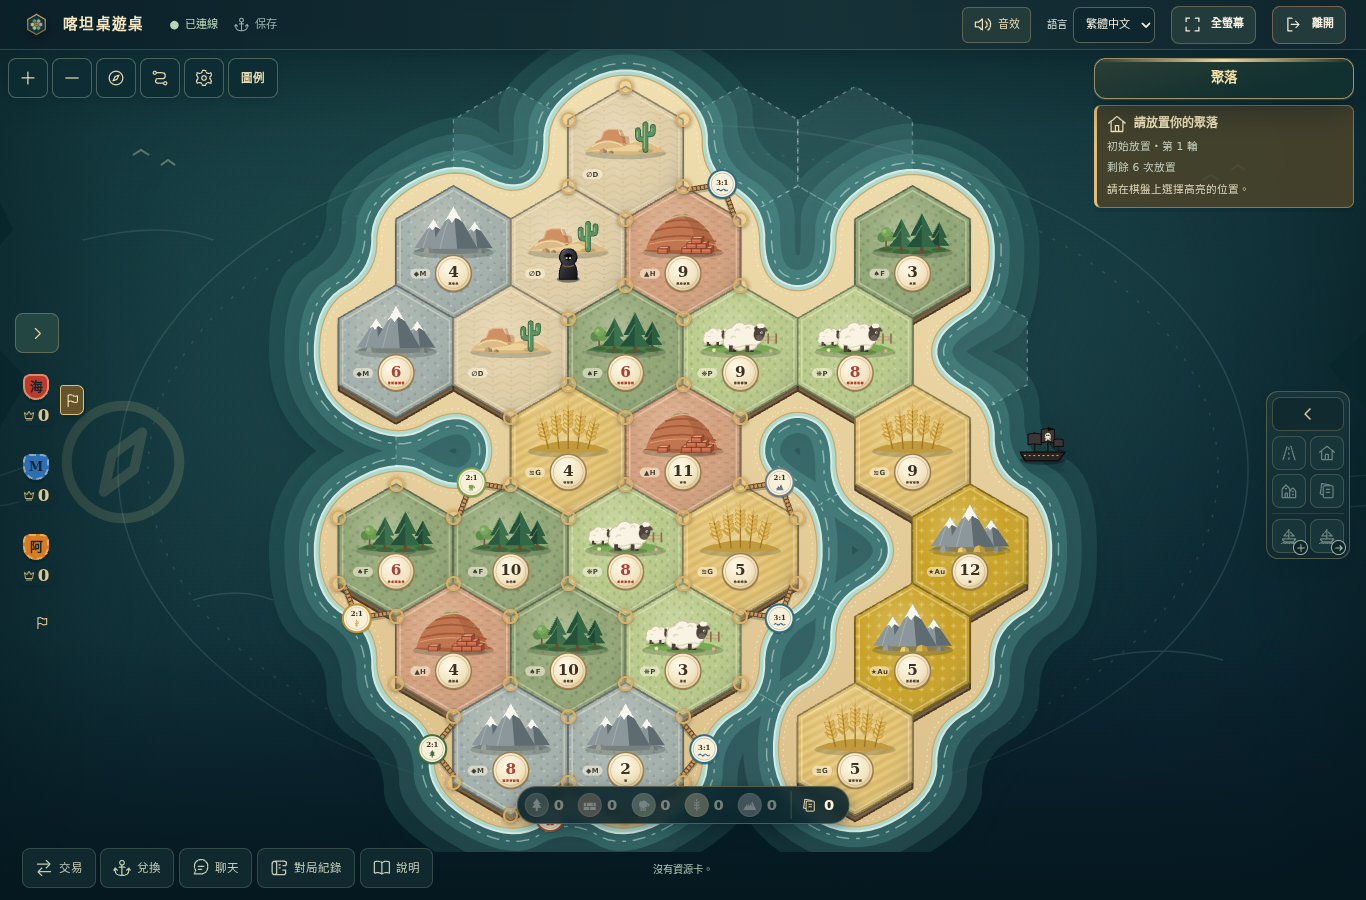
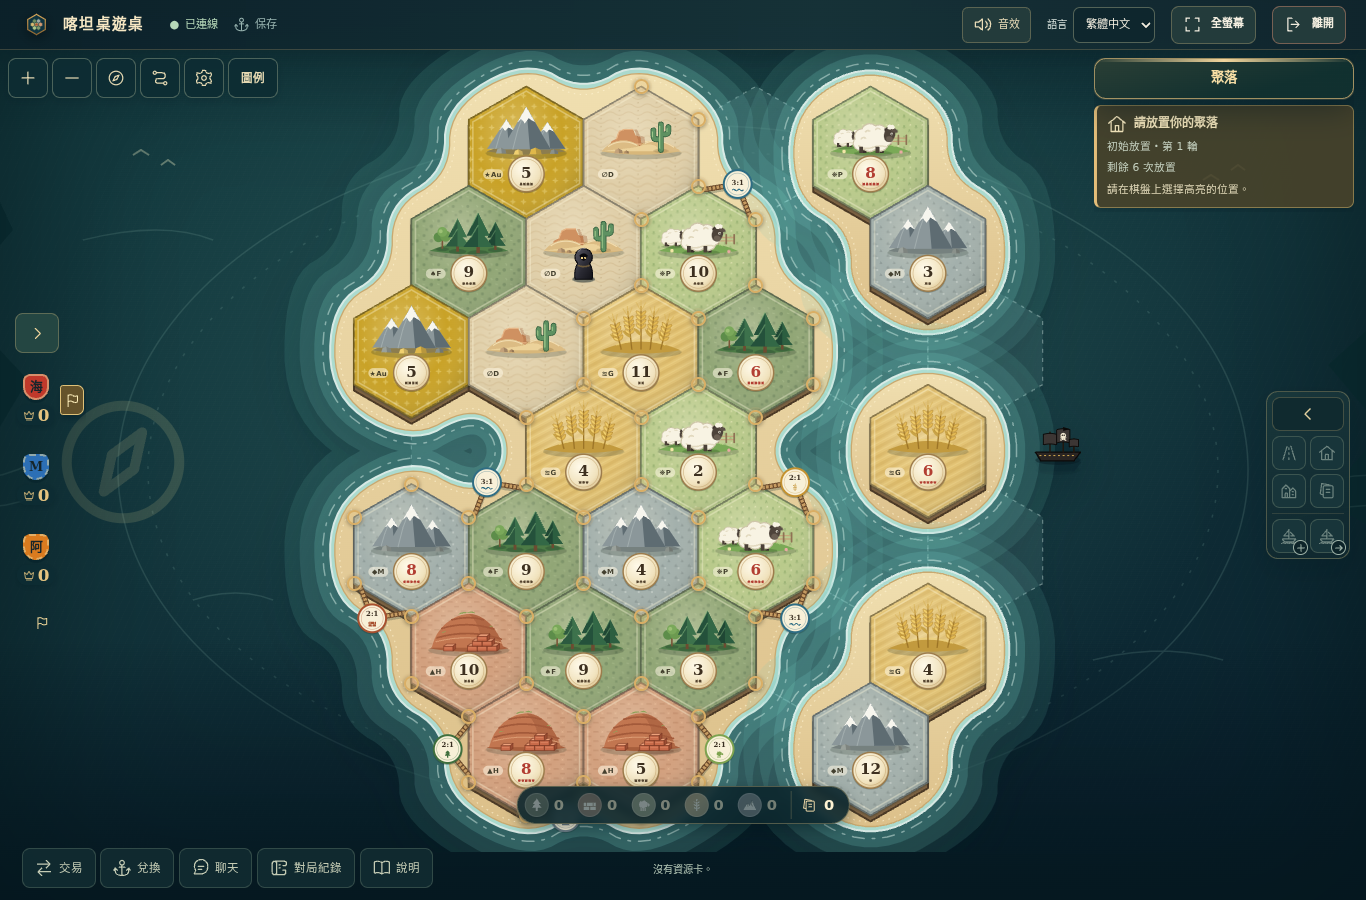
📝 docs(screenshots): retake the s4 variable setup captures

diff --git a/docs/aegis/work/2026-11-24-seafarers-variable-setup.md b/docs/aegis/work/2026-11-24-seafarers-variable-setup.md
@@ -105,7 +105,7 @@ shuffled.
 
 ## Browser evidence (`scripts/seafarers/capture_variable_setup.py`)
 
-Real games through the real UI and API against the built service (private SQLite): the host creates the room, switches the setup mode to `variable` in the lobby settings and saves, three or four seats join and start. Each started board is read from the API and checked by `variable_fixture.mjs` (it differs from the fixed map; S2 no 2/3/11/12 on forest or pasture and robber on the 12; S3 robber on the 12; S4 no adjacent red discs, none on gold, robber on the desert). 21 cases, 0 errors; the curated 15 images are kept in `docs/screenshots/seafarers-variable-setup/` (the others, such as the 3-player lobby shots, are deleted after the run and marked `committed: false`).
+Real games through the real UI and API against the built service (private SQLite): the host creates the room, switches the setup mode to `variable` in the lobby settings and saves, three or four seats join and start. Each started board is read from the API and checked by `variable_fixture.mjs` (it differs from the fixed map; S2 no 2/3/11/12 on forest or pasture and robber on the 12; S3 robber on the 12; S4 no adjacent red discs, none on gold, robber on the desert). 21 cases, 0 errors (the S4 captures were retaken after the review fix; `SF_SCENARIOS=through-the-desert` reruns one scenario); the curated 15 images are kept in `docs/screenshots/seafarers-variable-setup/` (the others, such as the 3-player lobby shots, are deleted after the run and marked `committed: false`).
 
 | Image | sha256 |
 |---|---|
@@ -119,10 +119,10 @@ Real games through the real UI and API against the built service (private SQLite
[13 lines of base64/hex data omitted]
 
 S10b (S5, S6, S8) is not part of this slice.
